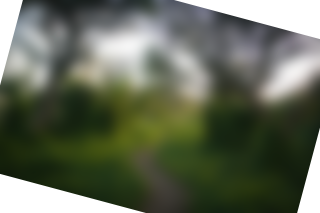
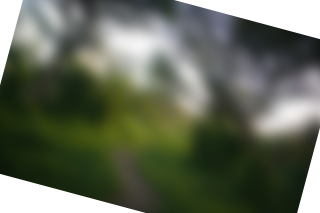
Canvas fixes

diff --git a/src/graphics/Canvas.cpp b/src/graphics/Canvas.cpp
@@ -80,8 +80,9 @@ static void setRenderComposition(RenderStateEx& state, const Composition& compos
     if (composition) {
         state.mode = toBlendingCompositionMode(composition.blend, composition.compose);
         if (composition.backdrop) {
-            state.backImageHandle = composition.backdrop;
-            state.hasBackTexture  = true;
+            state.backImageHandle   = composition.backdrop;
+            state.hasBackTexture    = true;
+            state.backTextureMatrix = composition.matrix.invert().value_or(Matrix{});
         }
     } else {
         state.mode = BlendingCompositionMode::Normal;
@@ -147,6 +148,7 @@ void applier(RenderStateEx* renderState, const Internal::PaintAndTransform& pain
     case 1: { // Gradient
         const Gradient& gradient = get<Gradient>(paint.paint);
         if (gradient.colorStops().empty()) {
+            renderState->opacity = 0.f;
             break;
         }
         renderState->gradientPoint1 = paint.transform.transform(gradient.getStartPoint());
@@ -205,9 +207,15 @@ void Canvas::drawPreparedPath(const PreparedPath& path, const PaintAndTransform&
         return drawPreparedPathCmd(path, paint, scissor);
     }
 
-    int blurPad            = static_cast<int>(std::ceil(texture.blurRadius.vertical * 3));
+    const Matrix sourceToCanvas = texture.matrix * paint.transform;
+    const int padX =
+        static_cast<int>(std::ceil(3.f * std::max(texture.blurRadius.horizontal * std::abs(sourceToCanvas.a),
+                                                  texture.blurRadius.vertical * std::abs(sourceToCanvas.c))));
+    const int padY =
+        static_cast<int>(std::ceil(3.f * std::max(texture.blurRadius.horizontal * std::abs(sourceToCanvas.b),
+                                                  texture.blurRadius.vertical * std::abs(sourceToCanvas.d))));
     Rectangle bounds       = path.mask().pixelBounds();
-    Rectangle paddedBounds = bounds.withMargin(0, blurPad);
+    Rectangle paddedBounds = bounds.withMargin(padX, padY);
 
     // First step, sample horizontally, draw rectangle covering the path bounds
     // expanded by the blur radius.
@@ -215,14 +223,13 @@ void Canvas::drawPreparedPath(const PreparedPath& path, const PaintAndTransform&
     drawPreparedPathCmd(RectangleF(paddedBounds).withOffset(-paddedBounds.p1),
                         PaintAndTransform{ Texture{
                                                texture.image,
-                                               texture.matrix.translate(-paddedBounds.p1),
+                                               Matrix{}.translate(-paddedBounds.p1) * sourceToCanvas,
                                                texture.mode,
                                                BlurRadius{ texture.blurRadius.horizontal, 0.f },
                                            },
-                                           {},
-                                           1.f },
+                                           Matrix{}, 1.f },
                         scissor == noClipRect ? noClipRect
-                                              : scissor.withMargin(0, blurPad).withOffset(-paddedBounds.p1));
+                                              : scissor.withMargin(padX, padY).withOffset(-paddedBounds.p1));
 
     // Second step, draw the path, sampling from the horizontally blurred layer.
     Rc<Image> layerImage = finishLayer();
@@ -300,7 +307,8 @@ struct CopyOrRef {
 };
 
 static bool isTransparent(const Paint& paint) {
-    return paint.index() == 0 && (std::get<0>(paint).a == 0);
+    return (paint.index() == 0 && std::get<0>(paint).a == 0) ||
+           (paint.index() == 1 && std::get<1>(paint).colorStops().empty());
 }
 
 void Canvas::fillPreparedPath(const PreparedPath& path, const Paint& fillPaint, Rectangle scissor,
@@ -491,6 +499,8 @@ struct GeometryRectangle {
 };
 
 void Canvas::blurRect(RectangleF rect, float blurRadius, CornersF borderRadius, bool squircle) {
+    if (m_state.opacity < 0.04f || isTransparent(m_state.fillPaint))
+        return;
     RenderStateEx style(ShaderType::Shadow, std::tuple{ Arg::blurRadius = blurRadius * 0.36f,
                                                         Internal::PaintAndTransform{
                                                             m_state.fillPaint, Matrix{}, m_state.opacity },
@@ -631,10 +641,11 @@ void Canvas::fillPath(const Path& path) {
 }
 
 void Canvas::drawPath(const Path& path) {
-    fillPath(path, m_state.fillPaint, m_state.fillParams, m_state.transform, preparedClipPath(),
-             m_state.scissor, m_state.opacity);
-    strokePath(path, m_state.strokePaint, m_state.strokeParams, m_state.transform, preparedClipPath(),
-               m_state.scissor, m_state.opacity);
+    const PreparedPath& clipPath = preparedClipPath();
+    fillPath(path, m_state.fillPaint, m_state.fillParams, m_state.transform, clipPath, m_state.scissor,
+             m_state.opacity);
+    strokePath(path, m_state.strokePaint, m_state.strokeParams, m_state.transform, clipPath, m_state.scissor,
+               m_state.opacity);
 }
 
 void Canvas::drawImage(RectangleF rect, Rc<Image> image, Matrix matrix, SamplerMode samplerMode,
@@ -713,21 +724,21 @@ void Canvas::fillText(PointF position, const TextLayout& text) {
             Path path;
             const Paint paint = decoration.color ? Paint{ ColorW(*decoration.color) } : textPaint;
             const StrokeParams params{ .capStyle = CapStyle::Flat, .strokeWidth = decoration.thickness };
-            if (decoration.decoration && TextDecoration::Underline) {
+            if ((decoration.decoration & TextDecoration::Underline) != TextDecoration::None) {
                 const std::array<PointF, 2> points{
                     decoration.start + PointF{ 0.f, decoration.underlineOffset },
                     decoration.end + PointF{ 0.f, decoration.underlineOffset }
                 };
                 path.addPolyline(points);
             }
-            if (decoration.decoration && TextDecoration::Overline) {
+            if ((decoration.decoration & TextDecoration::Overline) != TextDecoration::None) {
                 const std::array<PointF, 2> points{
                     decoration.start + PointF{ 0.f, decoration.overlineOffset },
                     decoration.end + PointF{ 0.f, decoration.overlineOffset }
                 };
                 path.addPolyline(points);
             }
-            if (decoration.decoration && TextDecoration::LineThrough) {
+            if ((decoration.decoration & TextDecoration::LineThrough) != TextDecoration::None) {
                 const std::array<PointF, 2> points{
                     decoration.start + PointF{ 0.f, decoration.lineThroughOffset },
                     decoration.end + PointF{ 0.f, decoration.lineThroughOffset }

diff --git a/include/brisk/graphics/Matrix.hpp b/include/brisk/graphics/Matrix.hpp
@@ -622,7 +622,7 @@ struct MatrixOf {
     std::optional<MatrixOf> invert() const {
         T det = a * d - b * c; // determinant
 
-        if (det < std::numeric_limits<T>::epsilon()) {
+        if (std::abs(det) < std::numeric_limits<T>::epsilon()) {
             return std::nullopt; // Matrix is not invertible
         }
 
